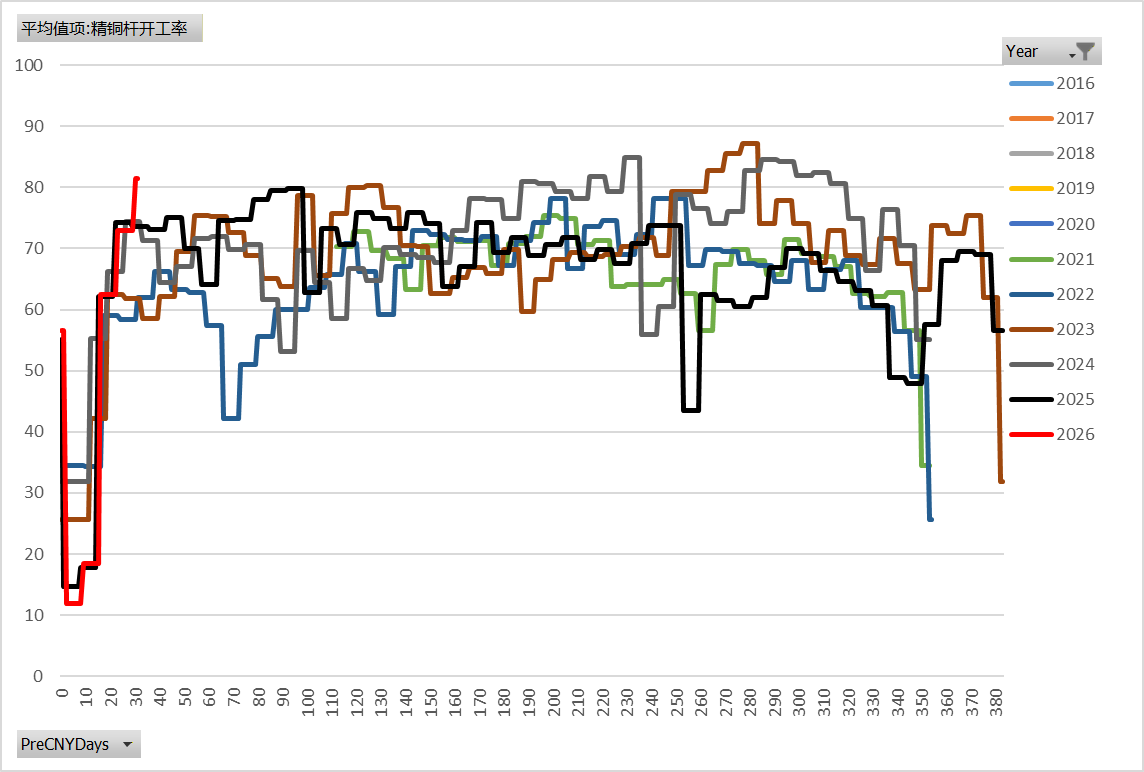
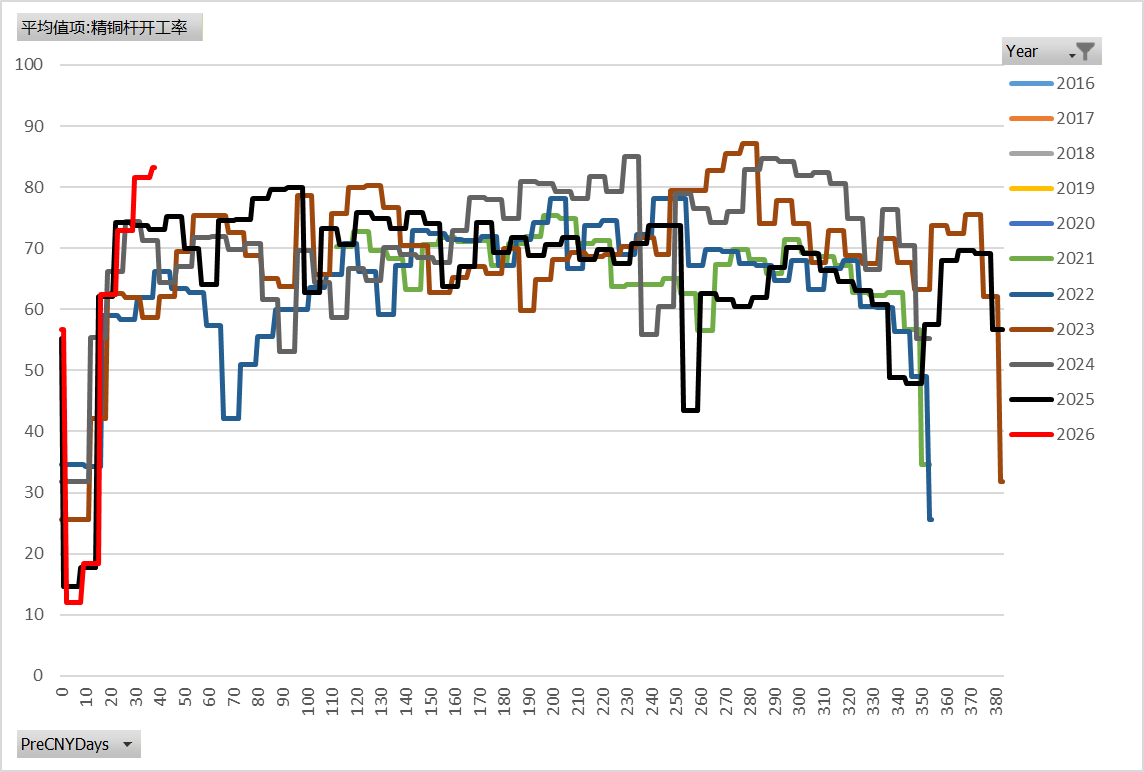
LAPTOP-KRS16UJL 2026-3-29:19:41:36

diff --git a/铜市场分析20260329.md b/铜市场分析20260329.md
@@ -12,7 +12,7 @@
 - <font size = 4>**周度主要变化简要**：本周国内微观数据利多，全球显性库存-80k，下游农历开工率同期新高，超过去年旺季高点。
 - **1. 精炼端：本周洋山铜溢价+19至+66美金，最大单周涨幅。**
 - - 库存：<font color = red>中国区库存环比-96k，节后去库快于季节性1-2周。</font>
-- - 精铜杆开工：开工率环比+2%至83%，幅度和去年农历季节性接近。
+- - 精铜杆开工：开工率环比+2%至83%，幅度大于去年农历季节性。
 - - **废铜杆开工：**湖北废铜杆企业开工率-1%至9.9%，处于低位区间，两杆差+90至+450，低于1200平衡线。因废铜原料紧张，废铜杆加工企业节后复工困难。
 - - **电缆企业订单：**根据SMM调研，电缆企业开工率环比+3.9%至70.5%，同比-4.4%，增幅符合季节性。（由于目前消费结构变化，电缆需求增速低于全铜需求）
 
